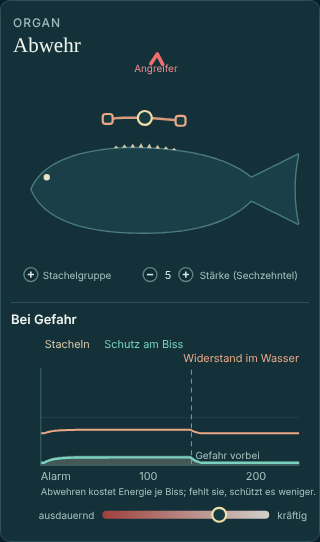
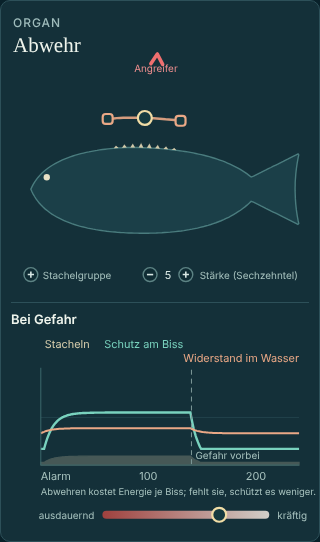
Entwurf Abwehr nach Astras Nachprüfung 19:31: Schutz über 16 Sektoren mit Zwischenwert, Widerstand nur aus der aktiven Höhe; Kiemen: Bodenfutter auch durch die Reusenpassage
Claude-Session: https://claude.ai/code/session_01SAD6gcsuZjdDe9bFzLa7Yk

Changed region(s): [[0.125, 0.738, 0.9375, 0.8561]]

diff --git a/entwuerfe/inspektoren.html b/entwuerfe/inspektoren.html
@@ -1948,7 +1948,7 @@ function drawGillChain() {
   const c = document.getElementById('gillflow'); c.replaceChildren();
   const d = GILL.density, T = gut.middle, y0 = 18, x0 = 80, x1 = 170, W = 66;
   txt(c, x0, 10, 'Kiemen', {style : 'font-size:10px'}); txt(c, x1, 10, 'Darm', {style : 'font-size:10px'}); txt(c, 296, 10, 'bringt', {'text-anchor' : 'end', style : 'font-size:10px'});
-  [['Plankton', rakerKeep(d) * rakerPass(d) * GILLFILM.pump, gain(FOOD[3][1], T), '#9cc8f0'], ['Bodenfutter', rakerSift(d) * mouthPower().suck, gain(FOOD[2][1], T), '#c9b48c']].forEach(([name, kept, made, colour], k) => {
+  [['Plankton', rakerKeep(d) * rakerPass(d) * GILLFILM.pump, gain(FOOD[3][1], T), '#9cc8f0'], ['Bodenfutter', rakerSift(d) * rakerPass(d) * mouthPower().suck, gain(FOOD[2][1], T), '#c9b48c']].forEach(([name, kept, made, colour], k) => {
     const y = y0 + 20 * k;
     txt(c, 4, y + 10, name, {style : 'fill:' + colour});
     for (const [x, v] of [[x0, kept], [x1, made]]) { el('rect', {x, y, width : W, height : 12, rx : 3, fill : '#0f2c34', stroke : '#2d5059'}, c); el('rect', {x, y, width : W * clamp(v, 0, 1), height : 12, rx : 3, fill : colour, opacity : .8}, c); }
@@ -2004,7 +2004,7 @@ function defPoints() {
   const cx = raw.reduce((t, q) => t + q[0], 0) / N, cy = raw.reduce((t, q) => t + q[1], 0) / N;
   const xs = raw.map(q => q[0]), x0 = Math.min(...xs), x1 = Math.max(...xs);
   defOutline = raw.map((q, k) => { const [ax, ay] = raw[(k + N - 2) % N], [bx, by] = raw[(k + 2) % N]; let nx = by - ay, ny = -(bx - ax); const l = Math.hypot(nx, ny) || 1; nx /= l; ny /= l;
-    if (nx * (q[0] - cx) + ny * (q[1] - cy) < 0) { nx = -nx; ny = -ny; } return {x : q[0], y : q[1], nx, ny, u : (q[0] - x0) / (x1 - x0), top : q[1] < cy}; });
+    if (nx * (q[0] - cx) + ny * (q[1] - cy) < 0) { nx = -nx; ny = -ny; } return {x : q[0], y : q[1], nx, ny, u : (q[0] - x0) / (x1 - x0), top : q[1] < cy, ang : Math.atan2(q[1] - cy, q[0] - cx)}; });
   probe.remove();
   return defOutline;
 }
@@ -2012,12 +2012,26 @@ function defPoints() {
 const defStrength = () => DEF.groups.reduce((t, g) => t + g.cells, 0) / 16 * forceOf(DEF.fast);
 const defRest = () => { const c = defStrength(); return .3 * c / (c + 5); };
 const defShare = (g, q) => q.top === g.top && q.u >= DEF_FREE[0] && q.u <= DEF_FREE[1] ? Math.max(0, 1 - Math.abs(q.u - g.at) / g.width) : 0;
-function defRun() {
-  // The active height starts at 0 and rises with the force; what shows is the higher of it and the
-  // resting height (body.hh:109).
-  const N = 240, keep = Math.exp(-1 / strokeLen(DEF.fast)), force = defStrength(), out = [defRest()]; let h = 0;
-  for (let st = 1; st <= N; st++) { h = Math.min(.85, h * keep + .02 * force * (st < 140 ? 1 : 0)); out.push(Math.max(defRest(), h)); }
+// The active height starts at 0 and rises with the force. Protection uses the higher of it and the
+// resting height (body.hh:109); the drag only the active one (movement.cc:78).
+function defActive() {
+  const N = 240, keep = Math.exp(-1 / strokeLen(DEF.fast)), force = defStrength(), out = [0]; let h = 0;
+  for (let st = 1; st <= N; st++) { h = Math.min(.85, h * keep + .02 * force * (st < 140 ? 1 : 0)); out.push(h); }
   return out;
+}
+const defRun = () => defActive().map(h => Math.max(defRest(), h));
+// Protection where the attacker bites: the groups spread over 16 sectors around the body, read
+// between the two nearest and set against the mean (body_plan.cc:837–875). Even cover gives 1.
+function defCover(aq) {
+  const pts = defPoints(), S = 16, sector = q => ((q.ang / (2 * Math.PI) * S) % S + S) % S, density = new Array(S).fill(0);
+  for (const g of DEF.groups) {
+    const sum = pts.reduce((u, q) => u + defShare(g, q), 0); if (!sum) continue;
+    for (const q of pts) { const w = defShare(g, q); if (!w) continue; const at = sector(q), i = Math.floor(at), f = at - i;
+      density[i % S] += g.cells * w / sum * (1 - f); density[(i + 1) % S] += g.cells * w / sum * f; }
+  }
+  const total = density.reduce((t, v) => t + v, 0); if (!total) return 0;
+  const at = sector(aq), i = Math.floor(at), f = at - i;
+  return S * (density[i % S] * (1 - f) + density[(i + 1) % S] * f) / total;
 }
 function drawDefense() {
   const svg = document.getElementById('defenseskin'); svg.replaceChildren();
@@ -2069,14 +2083,12 @@ function drawDefense() {
 // (teal) and the swim's speed left (orange), over the steps; the fibres set how fast they rise. ----
 function drawDefenseTime(aq) {
   const c = document.getElementById('defenserise'); c.replaceChildren();
-  const run = defRun(), N = run.length - 1, L = 30, R = 290, top = 22, base = 118, X = st => L + (R - L) * st / N, Y = v => base - (base - top) * v;
-  // Each group spread over its own width with its strength as weight; 16 sectors (body_plan.cc:837–875).
-  const pts = defPoints(), total = DEF.groups.reduce((t, g) => t + g.cells, 0);
-  const there = 16 / pts.length * DEF.groups.reduce((t, g) => { const sum = pts.reduce((u, q) => u + defShare(g, q), 0); return t + (sum ? g.cells / total * defShare(g, aq) / sum * pts.length : 0); }, 0);
+  const active = defActive(), run = active.map(h => Math.max(defRest(), h)), N = run.length - 1, L = 30, R = 290, top = 22, base = 118, X = st => L + (R - L) * st / N, Y = v => base - (base - top) * v;
+  const there = defCover(aq);
   grid(c, L, R, top, base, 1);
   el('path', {d : 'M' + run.map((h, st) => `${X(st).toFixed(1)} ${Y(h / .85).toFixed(1)}`).join(' L') + ` L${R} ${base} L${L} ${base} Z`, fill : '#d9cfae', opacity : .25, stroke : '#d9cfae', 'stroke-width' : 1.2}, c);
   el('path', {d : 'M' + run.map((h, st) => `${X(st).toFixed(1)} ${Y(Math.min(1, h * there)).toFixed(1)}`).join(' L'), fill : 'none', stroke : '#79d2be', 'stroke-width' : 2.4}, c);
-  el('path', {d : 'M' + run.map((h, st) => `${X(st).toFixed(1)} ${Y((1 + 2 * Math.max(0, h - defRest())) / 3).toFixed(1)}`).join(' L'), fill : 'none', stroke : '#eaa886', 'stroke-width' : 2}, c);
+  el('path', {d : 'M' + active.map((h, st) => `${X(st).toFixed(1)} ${Y((1 + 2 * h) / 3).toFixed(1)}`).join(' L'), fill : 'none', stroke : '#eaa886', 'stroke-width' : 2}, c);
   txt(c, L + 4, top - 22, 'Stacheln', {style : 'fill:#d9cfae'}); txt(c, L + 64, top - 22, 'Schutz am Biss', {style : 'fill:#79d2be'}); txt(c, R, top - 8, 'Widerstand im Wasser', {'text-anchor' : 'end', style : 'fill:#eaa886'});
   el('path', {d : `M${X(140)} ${top} V${base}`, stroke : '#7f9a99', 'stroke-dasharray' : '5 4'}, c);
   txt(c, X(140) + 4, base - 6, 'Gefahr vorbei', {style : 'font-size:10px'});
